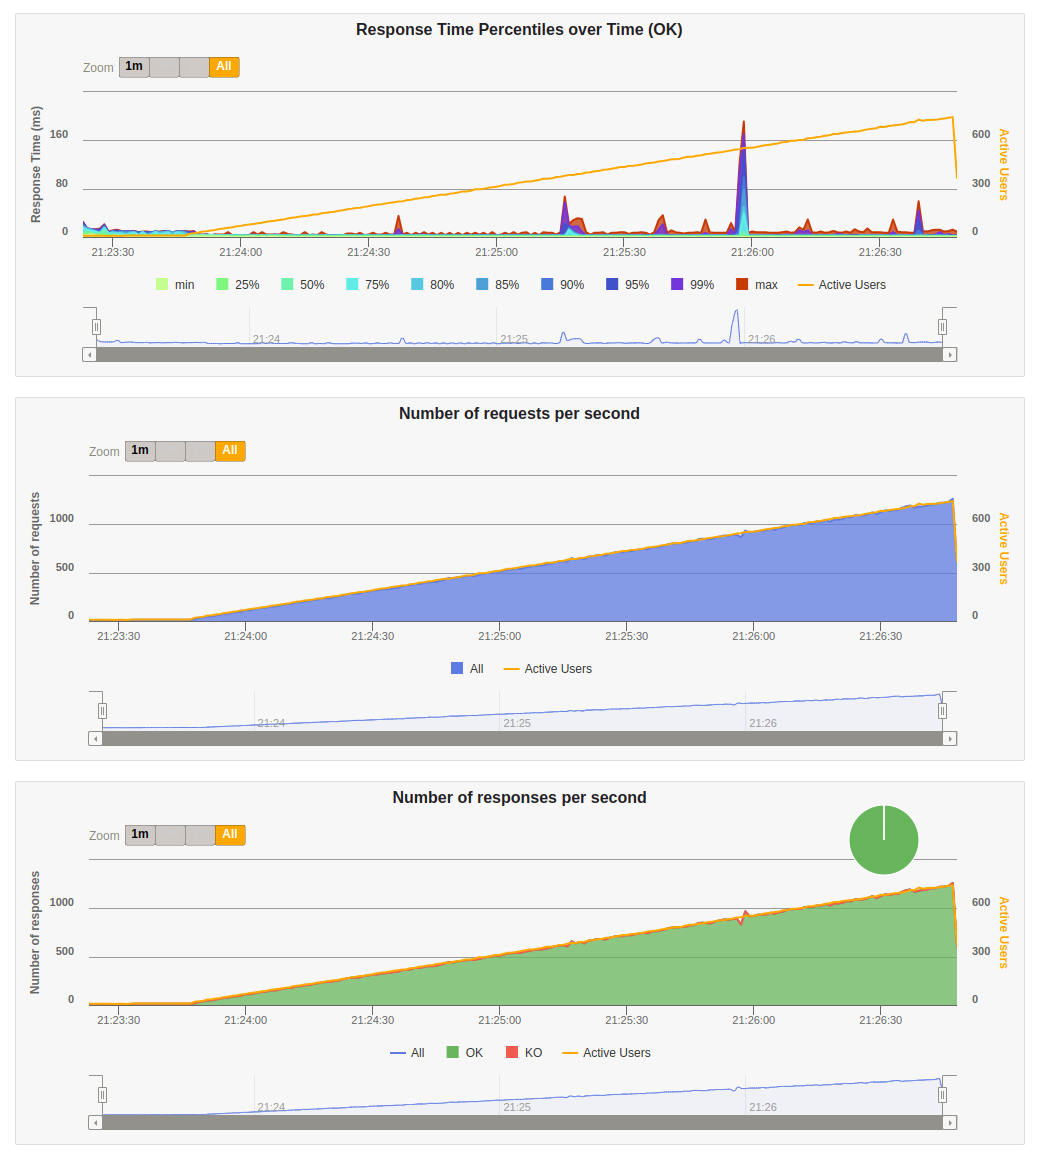
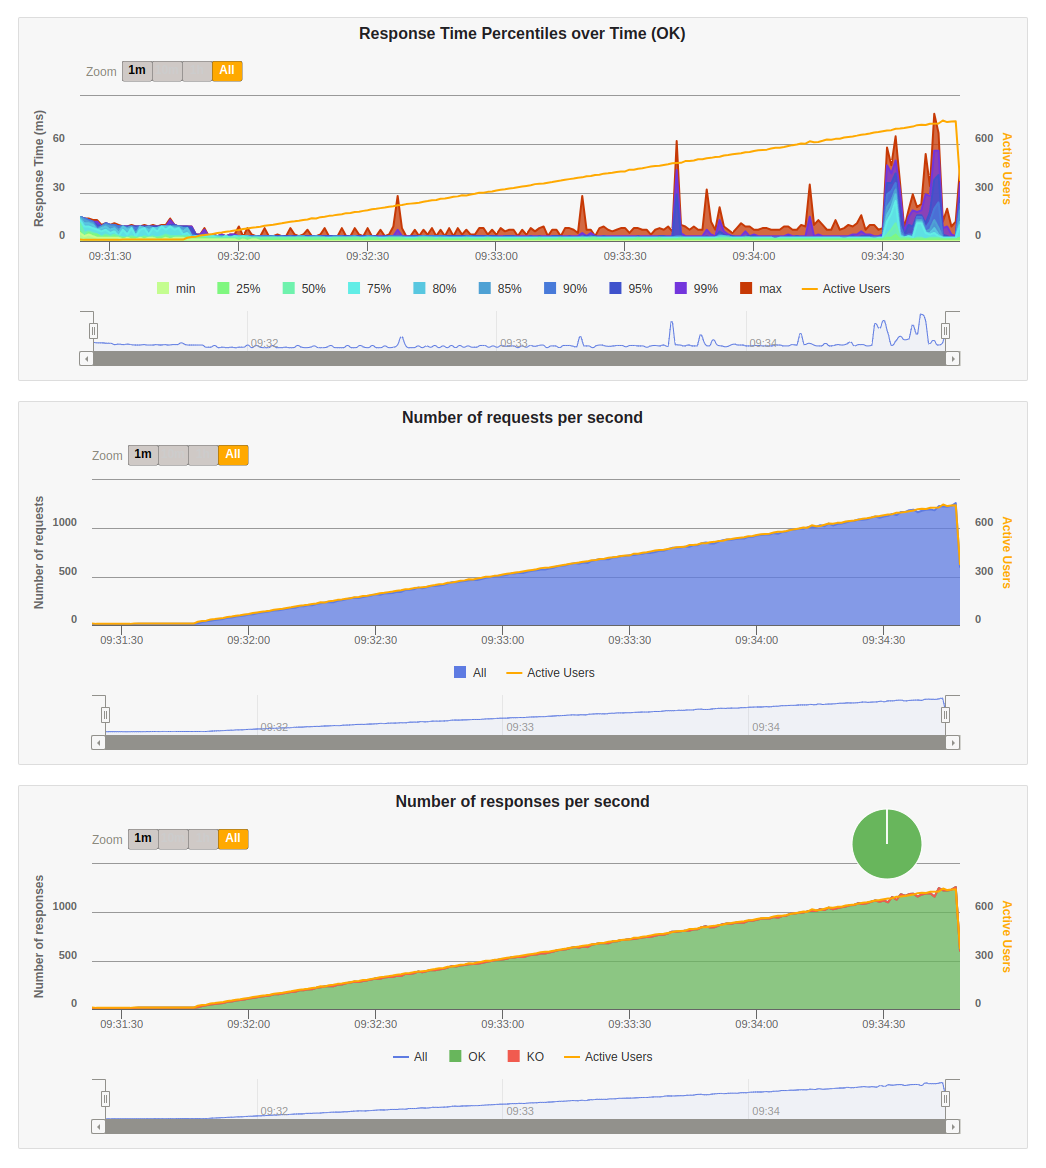
update results after more adjustments

diff --git a/README.md b/README.md
@@ -67,13 +67,13 @@ Generating reports...
 ---- Global Information --------------------------------------------------------
 > request count                                     114980 (OK=114980 KO=0     )
 > min response time                                      0 (OK=0      KO=-     )
-> max response time                                    191 (OK=191    KO=-     )
+> max response time                                     79 (OK=79     KO=-     )
 > mean response time                                     2 (OK=2      KO=-     )
-> std deviation                                          5 (OK=5      KO=-     )
+> std deviation                                          4 (OK=4      KO=-     )
 > response time 50th percentile                          1 (OK=1      KO=-     )
 > response time 75th percentile                          2 (OK=2      KO=-     )
-> response time 95th percentile                          3 (OK=3      KO=-     )
-> response time 99th percentile                         10 (OK=10     KO=-     )
+> response time 95th percentile                          4 (OK=4      KO=-     )
+> response time 99th percentile                         23 (OK=23     KO=-     )
 > mean requests/sec                                558.155 (OK=558.155 KO=-     )
 ---- Response Time Distribution ------------------------------------------------
 > t < 800 ms                                        114980 (100%)
@@ -81,7 +81,6 @@ Generating reports...
 > t >= 1200 ms                                           0 (  0%)
 > failed                                                 0 (  0%)
 ================================================================================
-
 A contagem de pessoas é: 46565
 ```
 
@@ -99,25 +98,30 @@ A contagem de pessoas é: 46565
 #### Resultado do gatling console
 
 ```
+Simulation RinhaBackendSimulation completed in 205 seconds
+Parsing log file(s)...
+Parsing log file(s) done
+Generating reports...
+
 ================================================================================
 ---- Global Information --------------------------------------------------------
 > request count                                     114980 (OK=114980 KO=0     )
 > min response time                                      0 (OK=0      KO=-     )
-> max response time                                    974 (OK=974    KO=-     )
-> mean response time                                    62 (OK=62     KO=-     )
-> std deviation                                        102 (OK=102    KO=-     )
+> max response time                                    133 (OK=133    KO=-     )
+> mean response time                                     5 (OK=5      KO=-     )
+> std deviation                                         10 (OK=10     KO=-     )
 > response time 50th percentile                          2 (OK=2      KO=-     )
-> response time 75th percentile                         97 (OK=97     KO=-     )
-> response time 95th percentile                        278 (OK=278    KO=-     )
-> response time 99th percentile                        456 (OK=456    KO=-     )
+> response time 75th percentile                          3 (OK=3      KO=-     )
+> response time 95th percentile                         28 (OK=28     KO=-     )
+> response time 99th percentile                         53 (OK=53     KO=-     )
 > mean requests/sec                                558.155 (OK=558.155 KO=-     )
 ---- Response Time Distribution ------------------------------------------------
-> t < 800 ms                                        114974 (100%)
-> 800 ms <= t < 1200 ms                                  6 (  0%)
+> t < 800 ms                                        114980 (100%)
+> 800 ms <= t < 1200 ms                                  0 (  0%)
 > t >= 1200 ms                                           0 (  0%)
 > failed                                                 0 (  0%)
 ================================================================================
-A contagem de pessoas é: 46565
+A contagem de pessoas é: 46565 
 ```
 
 #### Recusos do docker durante a parte mais pesada do teste
